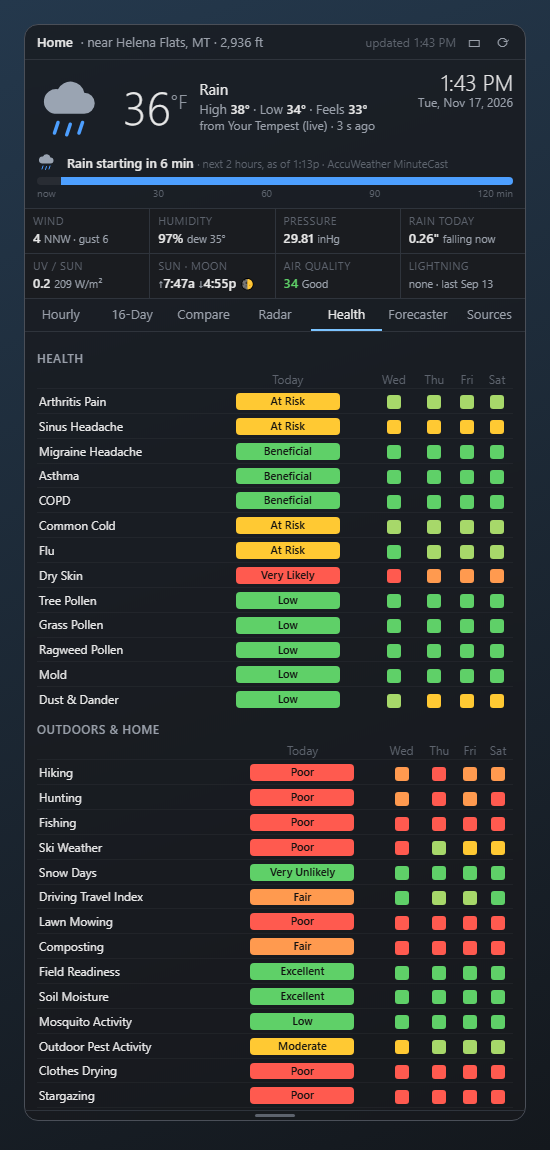
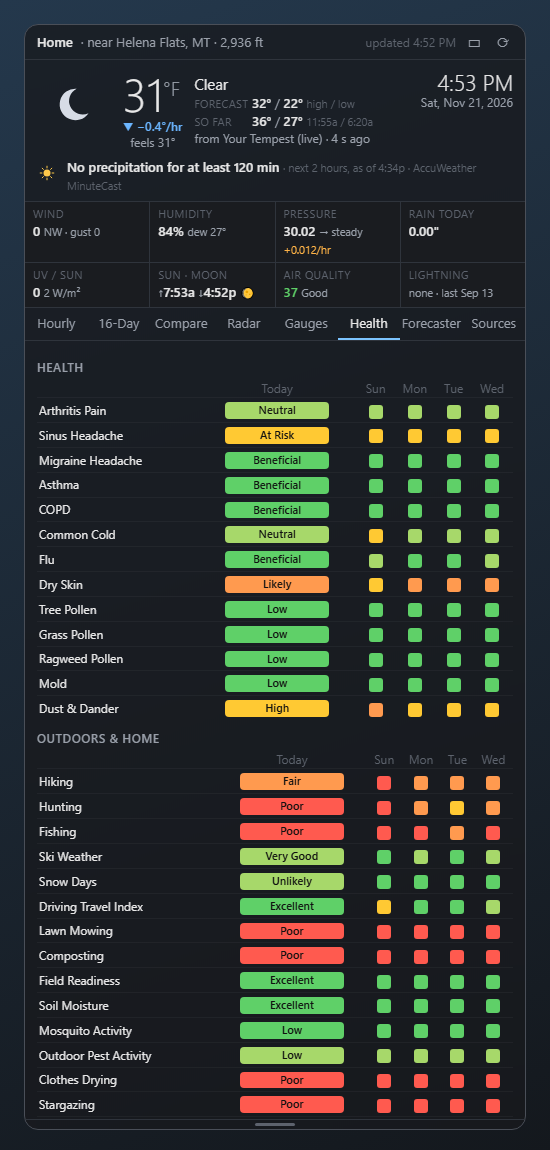
Now: today's actual high/low so far, last-hour temperature and pressure change
- So far line: the station's actual high/low since midnight with times
  (Tempest history, else WeatherDial's own readings; live reading counts)
- Under the temperature: change over the last hour (red up, blue down)
  and feels-like; Pressure box adds the last hour's change
- Tooltips with exact readings; README and screenshots updated

diff --git a/panel.html b/panel.html
@@ -63,6 +63,11 @@
   .now .from { color: var(--dim); font-size: 12px; }
   .now .hilo { color: var(--dim); }
   .now .hilo b { color: var(--text); font-weight: 600; }
+  .now .hilo small { color: var(--faint); }
+  .now .hilo .lbl { display: inline-block; min-width: 54px; color: var(--faint); font-size: 11px; text-transform: uppercase; letter-spacing: .03em; }
+  .now .rate { font-size: 12px; font-weight: 600; text-align: center; margin-top: 2px; cursor: help; white-space: nowrap; }
+  .now .feels { font-size: 12px; color: var(--dim); text-align: center; cursor: help; }
+  .now .hilo { white-space: nowrap; }
   .stats { display: grid; grid-template-columns: repeat(4, 1fr); gap: 1px; background: var(--line);
            border-top: 1px solid var(--line); border-bottom: 1px solid var(--line); }
   .stat { background: var(--cell); padding: 5px 8px; min-height: 34px; }
@@ -307,10 +312,18 @@ function render() {
     ⚠ <b>${esc(a.event)}</b> <span style="color:var(--alertmore)">until ${clock(a.ends)}</span>
     <div class="more">${esc(a.description)}${a.instruction ? "\n\n" + esc(a.instruction) : ""}</div></div>`).join("");
 
+  const G = D.gauges || {}, act = G.t_today, tr = G.t_rate_1h;
+  const rateTxt = (v, unit, dec) => v == null ? "" : `${v > 0 ? "▲ +" : v < 0 ? "▼ −" : "● "}${Math.abs(v).toFixed(dec)}${unit}`;
+  const rateCol = v => v == null || Math.abs(v) < 0.05 ? "var(--dim)" : v > 0 ? "var(--warm)" : "var(--cold)";
+  const actTip = act ? `Measured by your station today${act.since && act.since !== "00:00" ? ` (since ${hhmm(act.since)}, when WeatherDial started)` : " (since midnight)"}:\n` +
+    `High ${act.hi.toFixed(1)}°F at ${hhmm(act.hi_at) || "–"}, low ${act.lo.toFixed(1)}°F at ${hhmm(act.lo_at) || "–"}.\nThe "Forecast" line above is the average of all sources for the whole day.` : "";
   $("now").innerHTML = `<div>${icon(n.icon, 70, isNight())}</div>
-    <div class="big">${f0(n.temp)}<sup>°F</sup></div>
+    <div><div class="big">${f0(n.temp)}<sup>°F</sup></div>
+      ${tr != null ? `<div class="rate" style="color:${rateCol(tr)}" title="Temperature change over the last hour: ${tr > 0 ? "+" : ""}${tr.toFixed(1)}°F">${rateTxt(tr, "°/hr", 1)}</div>` : ""}
+      <div class="feels" title="Feels like: wind chill when cold and windy, heat index when hot and humid">feels ${f0(n.feels)}°</div></div>
     <div><div class="cond">${esc(n.text || "")}</div>
-      <div class="hilo">High <b>${f0(today.hi)}°</b> · Low <b>${f0(today.lo)}°</b> · Feels <b>${f0(n.feels)}°</b></div>
+      <div class="hilo" title="Forecast high and low for today: the average of all sources"><span class="lbl">Forecast</span> <b>${f0(today.hi)}°</b> / <b>${f0(today.lo)}°</b> <small>high / low</small></div>
+      ${act ? `<div class="hilo" title="${esc(actTip)}"><span class="lbl">So far</span> <b>${f0(act.hi)}°</b> / <b>${f0(act.lo)}°</b> <small>${hhmm(act.hi_at)} / ${hhmm(act.lo_at)}</small></div>` : ""}
       <div class="from">from ${esc(n.station || "–")} · ${n.age_s != null ? (n.age_s < 60 ? n.age_s + " s ago" : ago(n.time)) : ago(n.time)}</div></div>
     <div class="clock"><div class="tm" id="clkT"></div><div class="dt" id="clkD"></div></div>`;
   tick();
@@ -324,7 +337,12 @@ function render() {
   const stats = [
     ["Wind", `${f0(n.wind)} <small>${compass(n.dir)} · gust ${f0(n.gust)}</small>`, "", windTip(n.wind_max)],
     ["Humidity", `${f0(n.rh)}% <small>dew ${f0(n.dew)}°</small>`],
-    ["Pressure", `${n.pressure ? n.pressure.toFixed(2) : "–"} <small>${trendArrow} ${n.trend || "inHg"}</small>`],
+    ["Pressure", `${n.pressure ? n.pressure.toFixed(2) : "–"} <small>${trendArrow} ${n.trend || "inHg"}</small>` +
+      (G.p_rate_1h != null ? ` <small style="color:${rateCol(G.p_rate_1h * 100)}">${G.p_rate_1h >= 0 ? "+" : "−"}${Math.abs(G.p_rate_1h).toFixed(3)}/hr</small>` : ""), "",
+     `Pressure (sea level): ${n.pressure ? (+n.pressure).toFixed(3) : "–"} inHg` +
+      (G.p_rate_1h != null ? `\nChange over the last hour: ${G.p_rate_1h >= 0 ? "+" : ""}${G.p_rate_1h.toFixed(3)} in` : "") +
+      (G.p_3h != null && n.pressure ? `\nOver the last 3 hours: ${(+n.pressure - G.p_3h) >= 0 ? "+" : ""}${(+n.pressure - G.p_3h).toFixed(3)} in (${n.trend || "–"})` : "") +
+      `\nRising usually means improving weather; falling means change on the way.`],
     ["Rain today", `${n.rain_today != null ? n.rain_today.toFixed(2) + '"' : "–"} <small>${n.rain_rate ? "falling now" : ""}</small>`, "",
      n.rain_yesterday != null ? `Rain yesterday: ${(+n.rain_yesterday).toFixed(2)}"` : "Rain yesterday needs the Tempest cloud token"],
     ["UV / sun", `${n.uv ?? sky.uv ?? "–"} <small>${n.solar != null ? Math.round(n.solar) + " W/m²" : ""}</small>`, "extra"],

diff --git a/weather.py b/weather.py
@@ -438,8 +438,13 @@ def temps_from_obs(obs, clock):
             continue
         t = clock.from_epoch(ob[0])
         f = ob[7] * 9 / 5 + 32
-        d = out.setdefault(clock.day(t), {"hi": f, "lo": f, "first": t.strftime("%H:%M"), "n": 0})
-        d["hi"], d["lo"], d["last"], d["n"] = max(d["hi"], f), min(d["lo"], f), t.strftime("%H:%M"), d["n"] + 1
+        hm = t.strftime("%H:%M")
+        d = out.setdefault(clock.day(t), {"hi": f, "lo": f, "hi_at": hm, "lo_at": hm, "first": hm, "n": 0})
+        if f > d["hi"]:
+            d["hi"], d["hi_at"] = f, hm
+        if f < d["lo"]:
+            d["lo"], d["lo_at"] = f, hm
+        d["last"], d["n"] = hm, d["n"] + 1
     for d in out.values():
         d["hi"], d["lo"] = round(d["hi"], 1), round(d["lo"], 1)
     return out
@@ -1085,18 +1090,41 @@ def gauge_data(now, tem_extra, today):
             bucket = [int(e), avg or 0, gust or 0]
     if bucket: w_s.append(bucket)
 
-    day = (tem_extra.get("temps") or {}).get(today)
-    if not day:
+    # Today's actual high and low so far (with times): the station's history since midnight,
+    # else WeatherDial's own readings since it started; the live reading can beat either.
+    day = None
+    hist_day = (tem_extra.get("temps") or {}).get(today)
+    if hist_day:
+        day = {"hi": hist_day["hi"], "lo": hist_day["lo"], "hi_at": hist_day.get("hi_at"),
+               "lo_at": hist_day.get("lo_at"), "since": "00:00"}
+    else:
         own_day = load_json(DATA / "wind_max.json", {}).get("today") or {}
         if own_day.get("date") == today and own_day.get("t_hi") is not None:
-            day = {"hi": own_day["t_hi"], "lo": own_day["t_lo"]}
+            day = {"hi": own_day["t_hi"], "lo": own_day["t_lo"], "hi_at": own_day.get("t_hi_at"),
+                   "lo_at": own_day.get("t_lo_at"), "since": own_day.get("since")}
+    temp_now = now.get("temp")
+    if day and temp_now is not None:
+        hm = (now.get("time") or "")[11:16] or None
+        if temp_now > day["hi"]:
+            day["hi"], day["hi_at"] = temp_now, hm
+        if temp_now < day["lo"]:
+            day["lo"], day["lo_at"] = temp_now, hm
+
+    # Change over the last hour: temperature (°F/hr) and pressure (in/hr).
+    def t_at(ago):
+        older = [r for r in th if t - r[0] >= ago]
+        return older[-1][1] if older and t - older[-1][0] <= ago + 1200 else None
+    t1, p1 = t_at(3600), at(3600)
+    t_rate = round(temp_now - t1, 1) if temp_now is not None and t1 is not None else None
+    p_rate = round(float(p_now) - p1, 3) if p_now and p1 is not None else None
+
     p3 = at(3 * 3600)
     if p_now and p3 is not None:   # trend from the full history (also right after a restart)
         diff = float(p_now) - p3
         now["trend"] = "rising" if diff > .03 else "falling" if diff < -.03 else "steady"
     return {"p_hist": sampled, "p_3h": p3, "p_24h": at(24 * 3600),
-            "t_hist": sample(th), "w_hist": w_s,
-            "t_today": {"hi": day["hi"], "lo": day["lo"]} if day else None}
+            "t_hist": sample(th), "w_hist": w_s, "t_rate_1h": t_rate, "p_rate_1h": p_rate,
+            "t_today": day}
 
 
 def track_wind(now, today, now_local, history=None):
@@ -1127,8 +1155,10 @@ def track_wind(now, today, now_local, history=None):
             h, m = map(int, day["last"].split(":"))
             day["gap"] = max(day.get("gap", 0), mins - (h * 60 + m))
         day["last"] = hhmm
-        day["t_hi"] = temp if day.get("t_hi") is None else max(day["t_hi"], temp)
-        day["t_lo"] = temp if day.get("t_lo") is None else min(day["t_lo"], temp)
+        if day.get("t_hi") is None or temp > day["t_hi"]:
+            day["t_hi"], day["t_hi_at"] = temp, hhmm
+        if day.get("t_lo") is None or temp < day["t_lo"]:
+            day["t_lo"], day["t_lo_at"] = temp, hhmm
     log["today"] = day
     save_json(path, log)
     y = log.get("yesterday")

diff --git a/README.md b/README.md
@@ -15,6 +15,13 @@ forecasters' discussion). Elsewhere everything else still works.
 - **Now:** your own station (Tempest) if you have one, else the nearest official station,
   else the model. Shows wind and gusts, humidity and dew point, pressure and its 3-hour trend,
   rain today, UV and solar, sunrise and sunset, moon, air quality and lightning.
+  - Under the temperature: the **change over the last hour** (▲ red = warming, ▼ blue =
+    cooling) and the feels-like temperature.
+  - **Forecast** high / low for today (the average of all sources) and **So far**: the
+    actual high / low your station has measured since midnight, with the times they
+    happened. Hover for the exact readings.
+  - The Pressure box also shows the **change over the last hour** (e.g. +0.012/hr); hover
+    for the last hour and last 3 hours.
 - **Warnings:** National Weather Service alerts appear as a red banner. Click it to read the
   full alert and what to do.
 - **Next 2 hours** *(AccuWeather MinuteCast, optional)*: e.g. "Rain starting in 6 min", with
